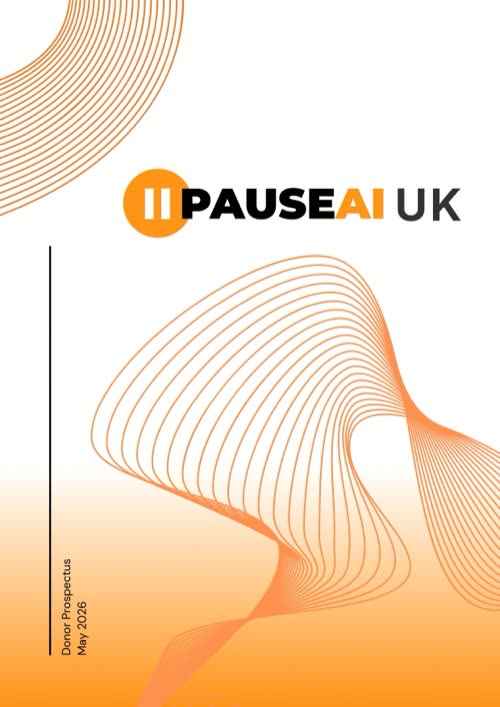
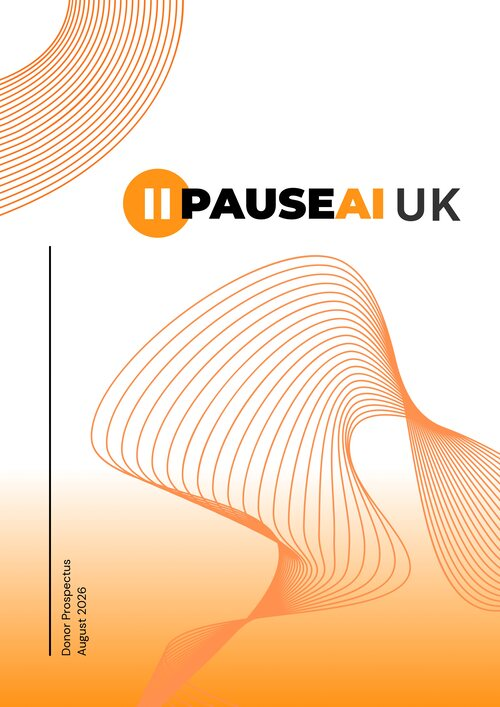
Update prospectus thumbnail and parliament gallery images
Refresh the prospectus cover thumbnail for the August 2026 edition
(resized to its 500x707 render size, since the donate page loads it as
a plain img), recrop two parliament photos, and swap the Corbyn shot
for a .jpg, updating both references.

diff --git a/app/track-record/page.tsx b/app/track-record/page.tsx
@@ -631,13 +631,13 @@ export default function TrackRecordPage() {
                     </a>
                     <a
                       className="shot"
-                      href="/images/parliament-june-2026/jeremy-corbyn.jpeg"
+                      href="/images/parliament-june-2026/jeremy-corbyn.jpg"
                     >
                       <Image
                         fill
                         sizes="(max-width: 768px) 100vw, 33vw"
                         style={{ objectFit: "cover" }}
-                        src="/images/parliament-june-2026/jeremy-corbyn.jpeg"
+                        src="/images/parliament-june-2026/jeremy-corbyn.jpg"
                         alt="PauseAI UK Board member David Wood with MP Jeremy Corbyn"
                       />
                     </a>
